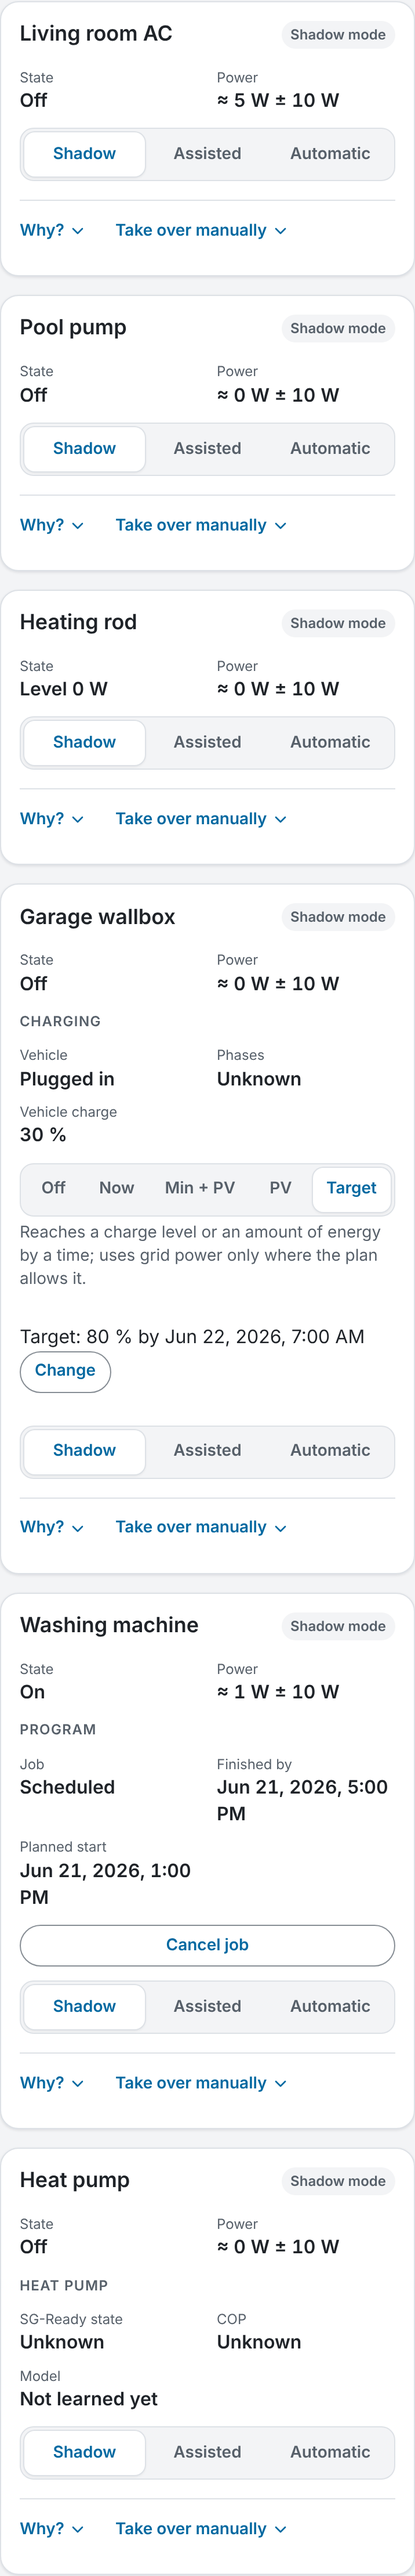
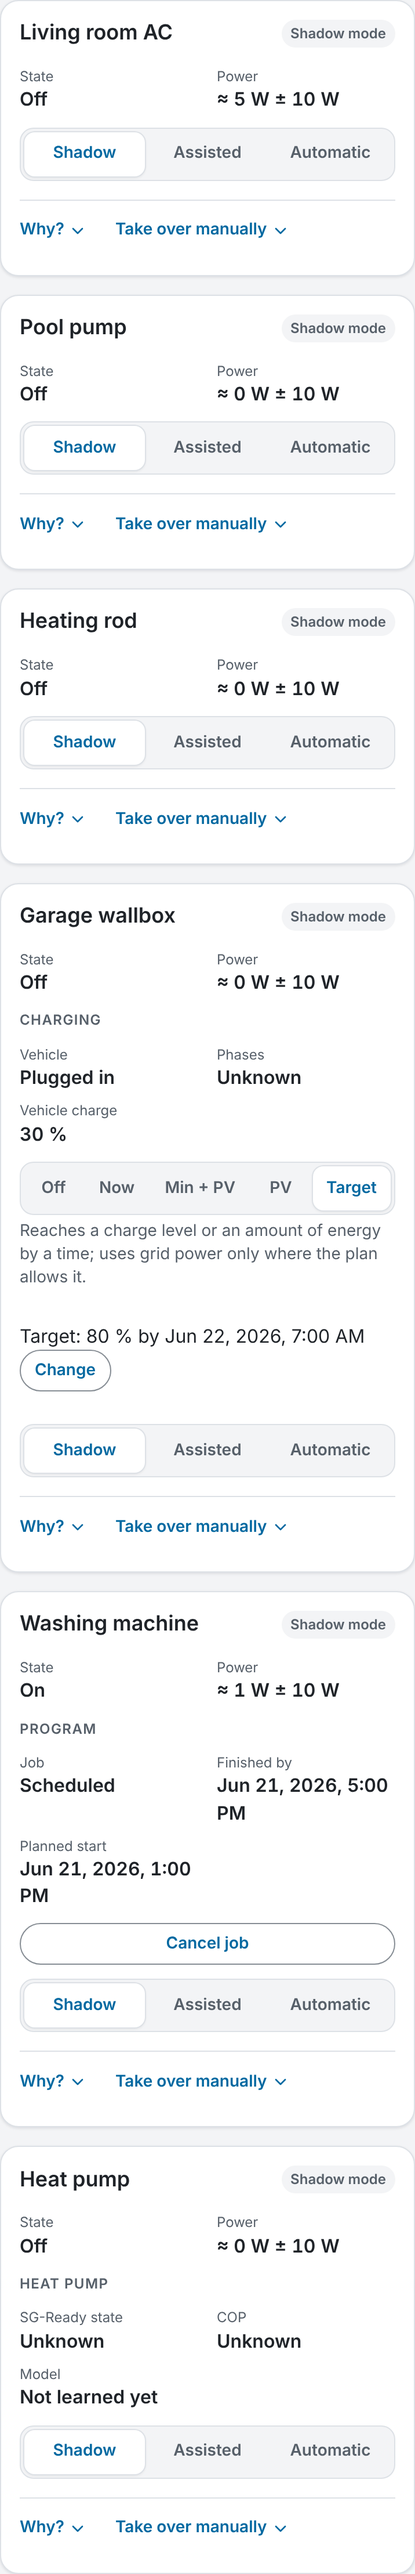
docs(design): refresh 7-E screenshots and review after the polish pass
Claude-Session: https://claude.ai/code/session_01RQbeZhexv6pzTs62CY98E3

diff --git a/docs/design/review-7e.md b/docs/design/review-7e.md
@@ -24,6 +24,9 @@ Karten kommen in den Nachher-Bildern dazu, die Seite ist dadurch länger.
 | Phase-6-Karten | Wallbox, Wärmepumpe, Programm mit eigenen Linien und eigenem Umschalter | gleiche Sprache: kleine Abschnittsüberschrift (LADEN, WÄRMEPUMPE, PROGRAMM), gleiche Wertepaare, Lademodus mit demselben Umschalter. Warnungen bleiben: Abbrechen eines Steckdosen-Programms und „Zurück zum Normalbetrieb“ warnen weiter, dass die Steckdose EINschaltet |
 | Letzte Entscheidungen | fünf Zeilen, jede mit „Schattenmodus: nur berechnet, nichts geschaltet.“ | höchstens vier Zeilen (Uhrzeit, Gerät, Aktion, Chip); ein Hinweis, den alle Zeilen teilen, steht einmal oben; Link zum Entscheidungsprotokoll |
 | Netz-Hinweise (Insel, §14a, Spitze) | Chips über dem Diagramm | unverändert über der Energie-Karte, nur wenn etwas vorliegt |
+| Begründungen | Gerätekennung klein am Satzanfang („wallbox charges …“) | Anzeigename des Geräts und großer Anfangsbuchstabe („Garage wallbox charges …“), auch im Deutschen; gilt für alle Begründungen (Jetzt, Plan, Entscheidungsprotokoll) |
+| Freier Überschuss | konnte negativ sein („-100 W“) | nie unter 0 W: ein negativer Wert heißt nur „kein Überschuss“ (Reserve nicht gedeckt), so rechnet auch die Sicherheitsprüfung; Bezug durch gesteuerte Geräte steht als Defizit daneben |
+| Zustand einstellbarer Lasten | „Level 0 W“ (Zustand und Leistung vermischt) | Stufe 0 heißt „Aus“; andere Stufen wie bisher mit Einheit |
 
 Reihenfolge von oben: Hinweise (nur bei Bedarf) – Energie jetzt – „Braucht dich“ (nur bei
 offenen Vorschlägen) – Batterie und nächste Aktionen – Geräte – letzte Entscheidungen.
@@ -50,7 +53,10 @@ sieht deshalb schon jetzt genauso aus (der Rest der Plan-Seite folgt in 7-F).
 - Neue Bausteine: `ToggleGroup` (Umschalter mit `aria-pressed`), `CardFooter` (ruhige Fußzeile
   mit aufklappbaren Feldern), drei Symbole (Haus, Batterie, Netz); `Card` kann jetzt `article`
   sein und streckt die Fußzeile ans Ende (gleiche Höhen).
-- Bundle: erste Anzeige 118,9 → 120,1 kB (Budget 125), Standardpfad 243,7 → 245,5 kB
+- Batteriekarte und „Nächste Aktionen“ behalten ihre eigene Höhe (keine leere Fläche unter dem
+  Umschalter). In den Gerätekarten sitzt die Fußzeile immer am Kartenende, auch auf dem Tablet
+  (zwei Spalten, geprüft bei 768 px).
+- Bundle: erste Anzeige 118,9 → 120,5 kB (Budget 125), Standardpfad 243,7 → 245,8 kB
   (Budget 250), Experten-Extras 25,4 kB unverändert.
 
 ## Vorher / Nachher

diff --git a/docs/plans/phase-7.md b/docs/plans/phase-7.md
@@ -930,12 +930,25 @@ dashboard look beyond the recipe; any change of the contracts `Plan`, `Intent`, 
 - `review-shots.spec.ts` gained `REVIEW_SHOTS_VIEWS` and a device-cards crop for the Now view.
 - **E2E order dependence (from 7-C, not changed here):** in a full three-project run, the 7-C
   test "the demo shows the flexible loads" fails on phone and tablet because the washer's armed
-  job is gone after the desktop `phase6.spec.ts` reset the demo; the shell test "Analysis has
-  tabs" saw `#/history?period=week` after earlier history specs. Both pass when their specs run
-  on a fresh server (99 of 99 for `now`, `shell`, `control` on all three projects).
-  Follow-up for `backend-engineer`/`qa-engineer`: re-arm the demo job on reset, or make the test
-  arm it.
-- **Budgets:** first paint 118.9 → 120.1 kB, standard path 243.7 → 245.5 kB, expert extras
+  job is gone after the desktop `phase6.spec.ts` reset the demo. Being fixed on the 7-C branch
+  (the demo job is re-created on reset).
+- **Polish after the first review:**
+  - Reasons render through `control/reasonText.ts` (`tReason`): the planner puts the device *id*
+    into `args.device` (it has no display names), so the panel substitutes the configured name
+    and capitalises the first letter in the active locale. Used by `ReasonList`, the planned
+    actions, the decision list, table and "Why?" and the plan status; the catalogue is
+    unchanged.
+  - Free surplus is shown as `max(0, free_w)`: `free_w` is available minus reserve minus the
+    committed draw, and below zero it only means "no surplus" (the gate clamps the same way,
+    `SiteSample.gate_estimate`); import caused by the controlled devices is `deficit_w`.
+  - `stateView` maps an adjustable load at level 0 to `off` (was "Level 0 W").
+  - The battery and "Next up" cards keep their own height (`align-items: start`); device-card
+    footers stay pinned to the card end (checked at 768 px, two columns).
+- **E2E fix:** `shell.spec.ts` asserted `#/history$` right after the History tab click, but the
+  history view writes its state into the URL with `router.replace` (`#/history?period=week`).
+  The assertion only passed while the view's chunk loaded after the first poll; it now asserts
+  the settled canonical URL.
+- **Budgets:** first paint 118.9 → 120.5 kB, standard path 243.7 → 245.8 kB, expert extras
   25.4 kB, ECharts unchanged.
 
 ## 9. Follow-ups per agent

diff --git a/docs/STATUS.md b/docs/STATUS.md
@@ -11,7 +11,7 @@ Bundle budget split pending maintainer decision; option A implemented (standard 
 expert extras 30 kB; 7-B measured 236.9 and 25.4 kB, first paint 113.2 kB).
 PR 7-D adds the design system and the new shell (review stop 1: `docs/design/review-7d.md`;
 first paint 118.9 kB, standard path 243.7 kB). PR 7-E rebuilds the Now view and its cards
-(`docs/design/review-7e.md`; first paint 120.1 kB, standard path 245.5 kB).
+(`docs/design/review-7e.md`; first paint 120.5 kB, standard path 245.8 kB).
 Phases 3 and 4 are merged; their acceptance on the maintainer's system (two stages, see "Next
 steps") and the acceptance of everything Phase 6 added are still open, because no PV surplus, wallbox,
 heat pump, §14a box or backup switch was available in the sessions ·
@@ -51,6 +51,8 @@ Carried to Phase 7: see "Open - Phase 7".
     Plan view). Device, EV, heat pump and program cards on `Card` with equal heights, the mode
     as `ToggleGroup` (`aria-pressed`, no arrow-key selection), "Why?" and "Take over manually"
     in `CardFooter`. Latest decisions: four entries, a note all share shown once.
+  - Reasons show device names instead of ids and start with a capital (`tReason`); free surplus
+    never below 0 W; an adjustable load at level 0 reads "Off".
   - New `ui/ToggleGroup`, `ui/CardFooter`, icons house/battery/grid, global `.facts` and
     `.kicker`; `EnergyFlow` and `SiteSummary` removed (`FlowList` stays for the wizard summary).
   - Screenshots `docs/assets/screenshots/after-7e/`; deviations in plan section 8 (7-E).
